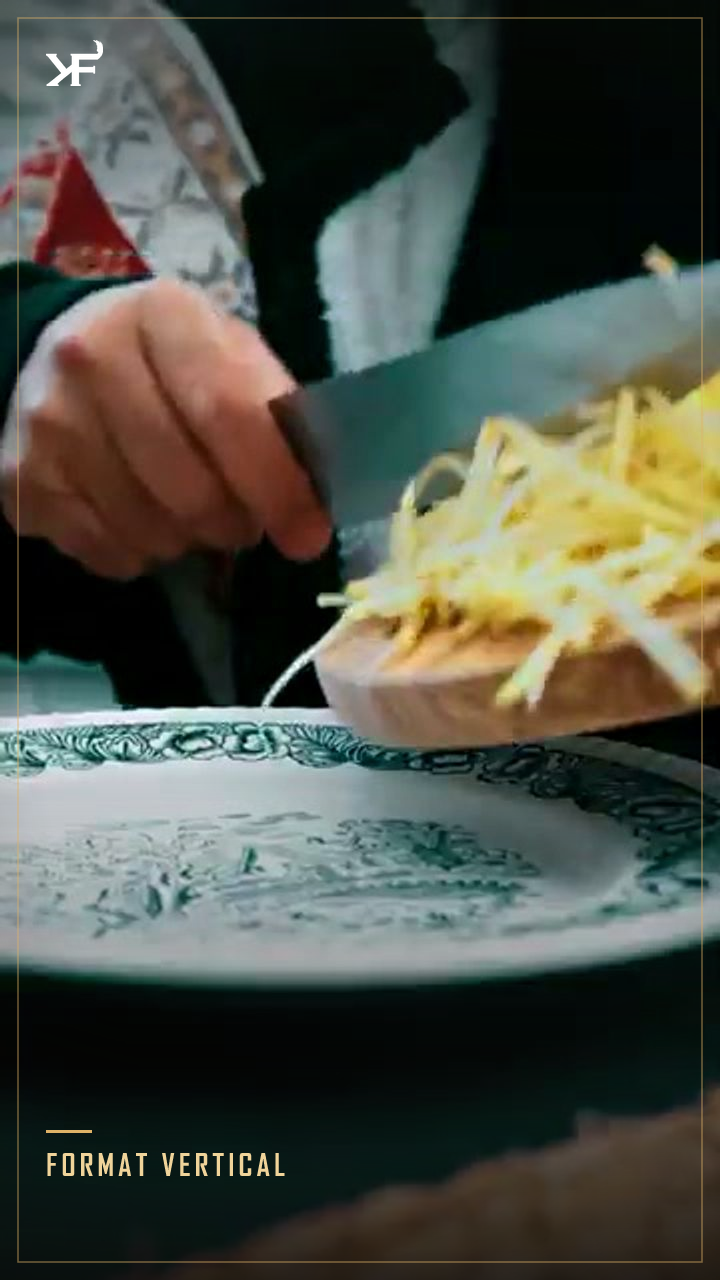
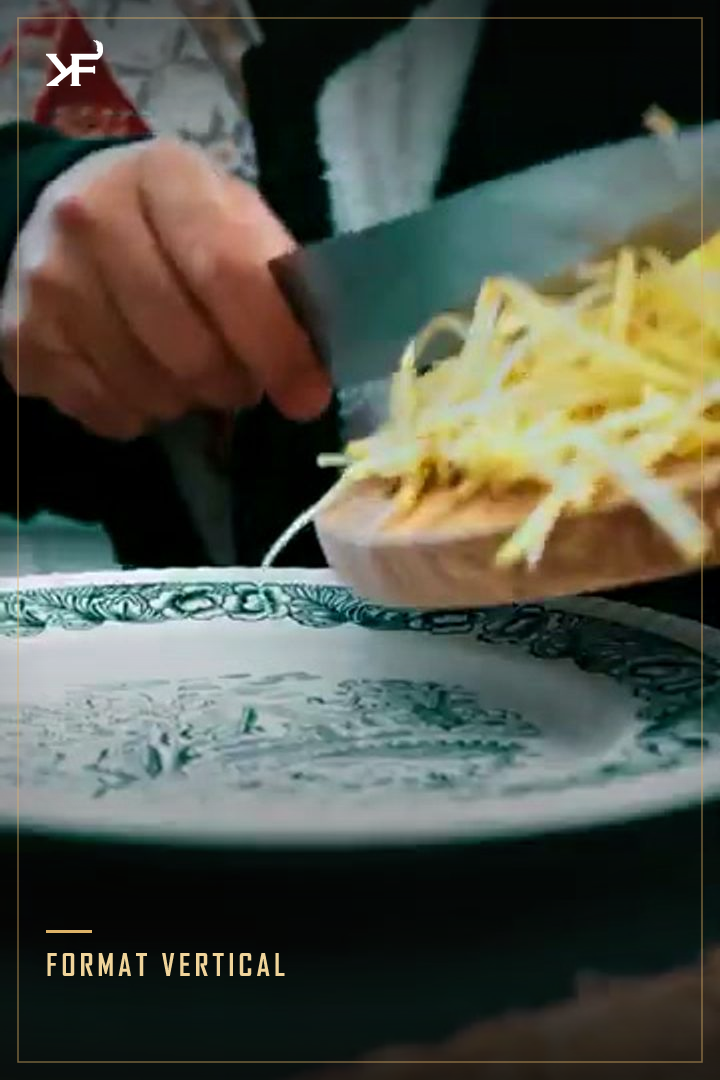
Vignettes verticales en 2:3 : tessellation propre (fin du zigzag)
Les vignettes verticales passent de 9:16 à 2:3 : une carte verticale occupe
alors exactement la hauteur de deux cartes horizontales (gap compris), donc
la grille masonry s'aligne en blocs nets au lieu de partir en zigzag sur
desktop. Le player de la fiche projet reste en vrai 9:16.

diff --git a/components/WorkCard.tsx b/components/WorkCard.tsx
@@ -19,7 +19,7 @@ export default function WorkCard({
       <Link href={`/realisations/${work.id}`} className="block">
         <div
           className={`relative overflow-hidden rounded-xl border border-border ${
-            work.vertical ? "aspect-[9/16]" : large ? "aspect-[16/9]" : "aspect-video"
+            work.vertical ? "aspect-[2/3]" : large ? "aspect-[16/9]" : "aspect-video"
           }`}
         >
           <Image
